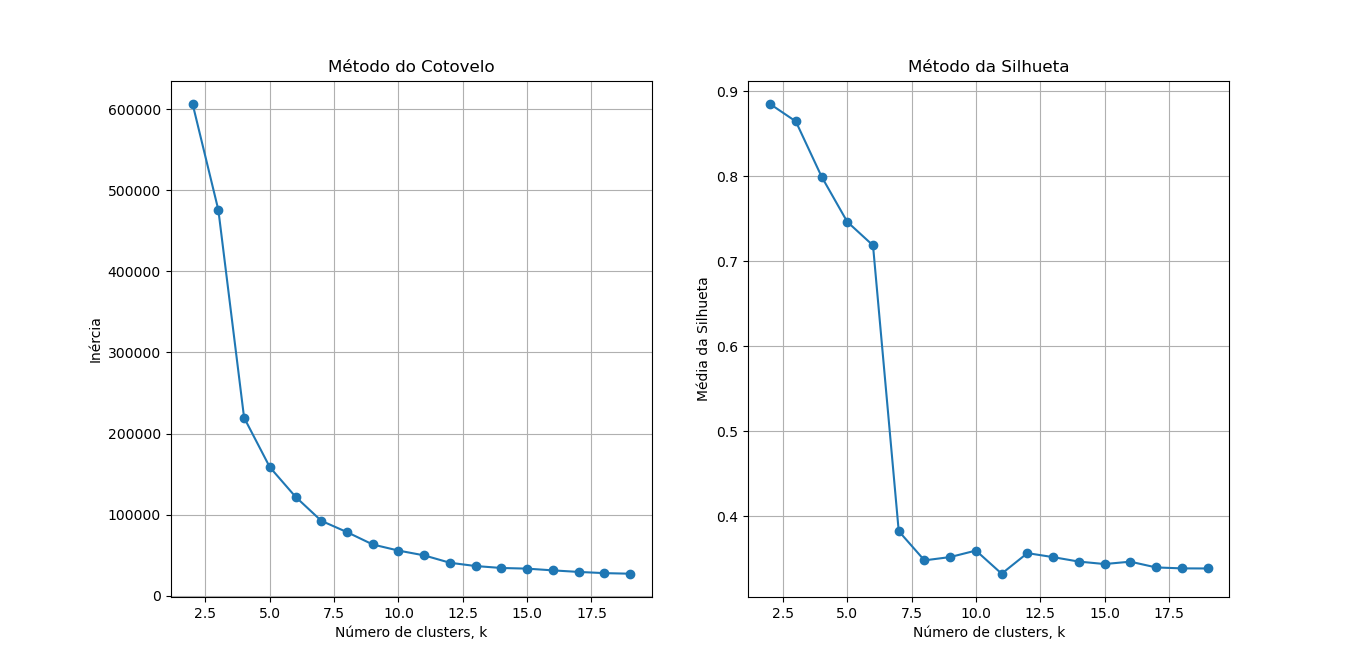
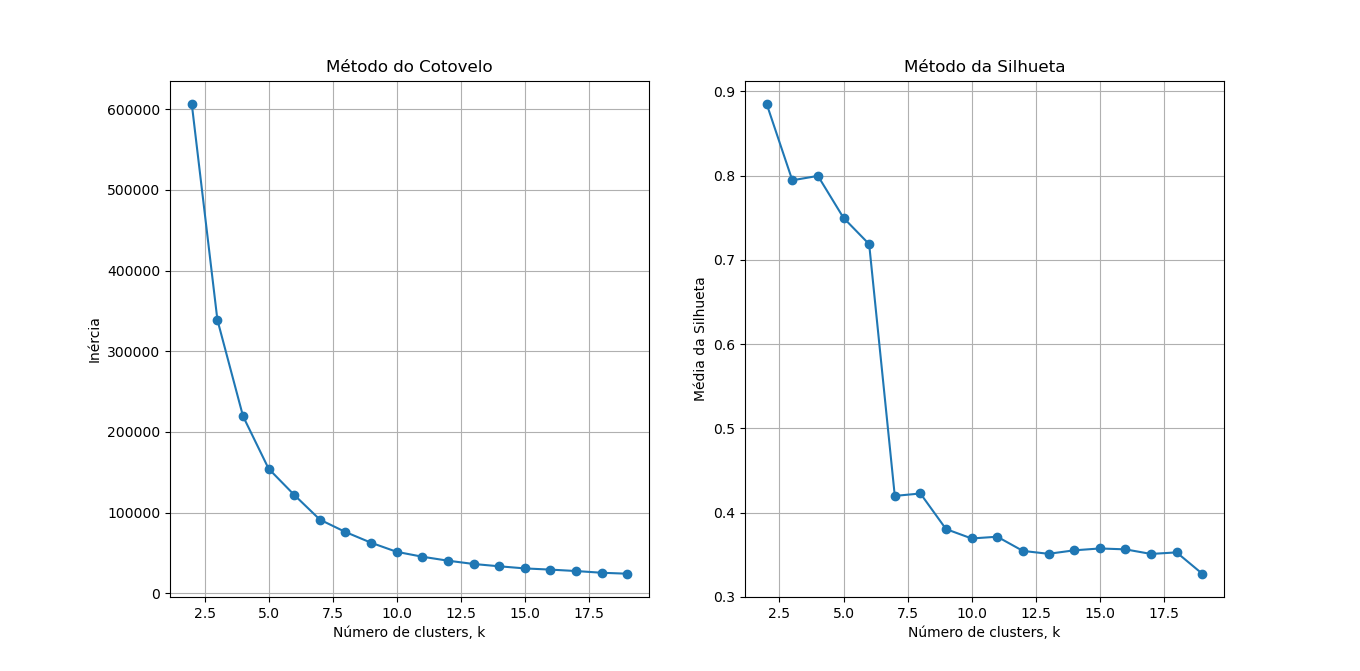
Atualizando projeto

diff --git a/modelos/3_aplicacao_kmeans.py b/modelos/3_aplicacao_kmeans.py
@@ -7,7 +7,8 @@ import matplotlib.pyplot as plt
 
 X = np.load('X_array.npy')
 
-kmeans = KMeans(n_clusters=5, init='k-means++', n_init='auto', max_iter = 300)
+kmeans = KMeans(n_clusters=5, init='k-means++', n_init=10, max_iter=300, random_state=42)
+
 kmeans_labels = kmeans.fit_predict(X)
 
 kmeans_silhouette = silhouette_score(X, kmeans_labels)

diff --git a/modelos/2_avaliacao_k.py b/modelos/2_avaliacao_k.py
@@ -22,7 +22,7 @@ inercias = []
 scores_silhueta = []
 
 for k in k_valores:
-    kmeans = KMeans(n_clusters=k, init = 'k-means++', n_init='auto', random_state=42)
+    kmeans = KMeans(n_clusters=k, init = 'k-means++', n_init=10, random_state=42)
     kmeans.fit(X)
     inercias.append(kmeans.inertia_)
 

diff --git a/README.md b/README.md
@@ -125,24 +125,22 @@ Como podemos identificar os itens mais populares entre os clientes para garantir
 
 ## 3.3 Clusterização
 - Na análise de segmentação de clientes utilizando KMeans, aplicamos os métodos do Cotovelo e da Silhueta para determinar o número ideal de clusters. O método do Cotovelo avalia a inércia (a soma das distâncias quadradas dos pontos ao centro do cluster), enquanto o método da Silhueta mede a qualidade da separação entre os clusters.
-- Observamos que, ao aumentar o número de clusters, a inércia diminui significativamente até o ponto onde as reduções se tornam menos acentuadas, sugerindo 5 clusters como uma boa escolha. A análise da Silhueta confirma essa decisão, com uma pontuação máxima também próxima de 5 clusters, indicando uma melhor coesão e separação entre os grupos.
+- Observamos que, ao aumentar o número de clusters, a inércia diminui significativamente até o ponto onde as reduções se tornam menos acentuadas, sugerindo 5 clusters como uma boa escolha. - O gráfico da média da silhueta também indica que a qualidade dos clusters é melhor para valores mais baixos de k, com um pico em k=2, mas a partir de  k=5, a média da silhueta começa a cair significativamente. Isso sugere que a separação entre clusters é mais clara para k≤5.
+- Ambos os métodos sugerem que um valor próximo de k=5 parece ser o mais adequado. O método da silhueta mostra que  k=2 tem a maior separação, mas o cotovelo aponta k=5 como uma boa escolha balanceada entre a separação e a redução da inércia.
 - Com base nessas avaliações, decidimos seguir com 5 clusters, visando otimizar a segmentação dos clientes e melhorar a interpretação dos grupos.
 
-![!\[\](imagens/avaliacao_](imagens/avaliacao_k.png)
+![alt text](imagens/avaliacao_k.png)
 
 - Score de Silhueta para KMeans: 0.4628
 
 ##  3.3.1 Análise por Cluster
 ![alt text](imagens/analise_clusters.png)
 
-- **Cluster 0:** A maior parte dos clientes do cluster 0 realiza compras regulares, com todos classificados na frequência 5, o que indica alta lealdade e engajamento. Esses clientes também estão na faixa de valor monetário 5, sugerindo que fazem compras significativas, tanto em volume quanto em valor. No entanto, a recência está distribuída, como ocorre em outros clusters. É importante investigar os clientes com baixa recência para verificar se eles não realizaram um grande volume de compras em um período concentrado e agora estão em risco de churn, ou seja, se tornarem inativos.
+- **Cluster 0:** Este grupo exibe uma ampla diversidade em termos de recência e frequência de compra. Alguns clientes são de alto valor, alta recência e fazem compras com alta frequência, demonstrando um engajamento recente. Outros, apesar de terem um alto valor monetário, apresentam uma frequência média ou baixa e podem não ter realizado compras recentemente. Para esses clientes, a análise deve focar tanto na retenção dos mais ativos quanto na reativação daqueles que estão em risco de churn. A variação na recência entre os membros do cluster exige uma abordagem segmentada para atender adequadamente às diferentes necessidades e comportamentos identificados.
 
-- **Cluster 1:** Os clientes do cluster 1 possuem uma menor frequência e um menor valor monetário, mas apresentam duas características distintas com base na recência. Aqueles com baixa recência, baixa frequência e baixo valor monetário são potenciais churn, indicando que podem estar em risco de abandonar a marca. Por outro lado, clientes com alta recência, embora também tenham baixa frequência e baixo valor, podem ser novos clientes, ainda em fase inicial de relacionamento.
+- **Cluster 1, 2 e 4** Esses clusters compartilham as mesmas características entre si. A maior parte dos clientes realiza compras regulares, com todos classificados na frequência 5, o que indica alta lealdade e engajamento. Esses clientes também estão na faixa de valor monetário 5, sugerindo que fazem compras significativas, tanto em volume quanto em valor. No entanto, a recência está bem distribuída, como ocorre em outros clusters. É importante investigar os clientes com baixa recência para verificar se eles não realizaram um grande volume de compras em um período concentrado e agora estão em risco de churn, ou seja, se tornarem inativos.
 
-- **Cluster 2 e 3:** Esses clusters compartilham as mesmas características do cluster 0, com clientes altamente leais e engajados, que compram frequentemente e têm alto valor monetário. Assim como no cluster 0, é necessário monitorar os clientes com baixa recência para identificar possíveis sinais de churn.
-
-- **Cluster 4:** Este cluster apresenta uma diversidade significativa em termos de frequência e valor monetário. Alguns membros desse grupo são clientes de alto valor e alta frequência que fizeram compras recentemente, enquanto outros têm média frequência e médio valor monetário e podem não ter realizado compras recentes. A análise desses clientes deve considerar tanto aqueles que continuam ativamente engajados quanto os que podem estar em risco de se tornarem inativos. A variada distribuição de recência neste cluster exige uma avaliação cuidadosa para entender as diferentes necessidades e comportamentos dentro deste grupo.
-
+- **Cluster 3:** A maioria dos clientes neste cluster apresenta baixa frequência de compras e menor valor monetário, mas exibem diferentes características quando analisados em termos de recência, frequência e valor. Aqueles com baixa recência, frequência e valor são potenciais candidatos ao churn, indicando um risco elevado de abandonar a marca. Por outro lado, clientes com alta recência, apesar da baixa frequência e valor, podem ser novos consumidores que estão ainda no início de seu relacionamento com a marca. Além disso, há também um grupo de clientes que já demonstra maior valor monetário e frequência de compras, sinalizando um nível mais alto de engajamento.
 
 
 
